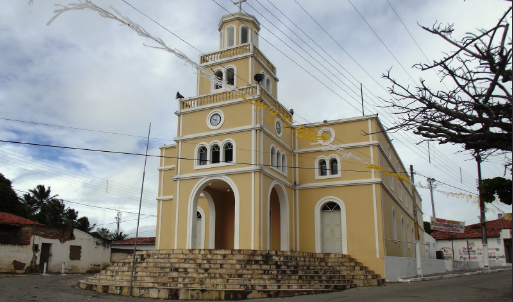
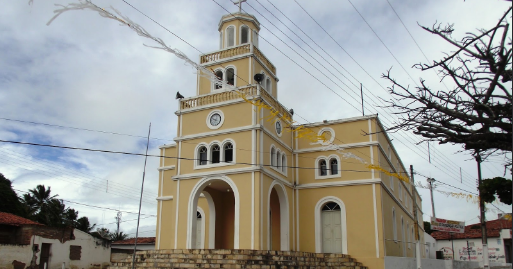
ajustei as imagens das cidades

diff --git a/Projeto Integrador/Projeto integrador/Projeto Integrador/Groovin/index.html b/Projeto Integrador/Projeto integrador/Projeto Integrador/Groovin/index.html
@@ -74,15 +74,15 @@
     <ul id="slippry-slider">
 
 <li>
-    <a href="#slide2"><img src="assets/img/slide/bf.jpg" alt="Baía Formosa"></a>
+    <a href="#slide2"><img src="assets/img/slide/bf.png" alt="Baía Formosa"></a>
 </li>
 
 <li>
-    <a href="#slide3"><img src="assets/img/slide/cangua.jpg"  alt="Canguaretama"></a>
+    <a href="#slide3"><img src="assets/img/slide/cang.png"  alt="Canguaretama"></a>
 </li>
         
 <li>
-    <a  href="#slide5"><img src="assets/img/slide/goi.jpg" alt="Goianinha"></a>
+    <a  href="#slide5"><img src="assets/img/slide/goi.png" alt="Goianinha"></a>
 </li>
 
 <li>
